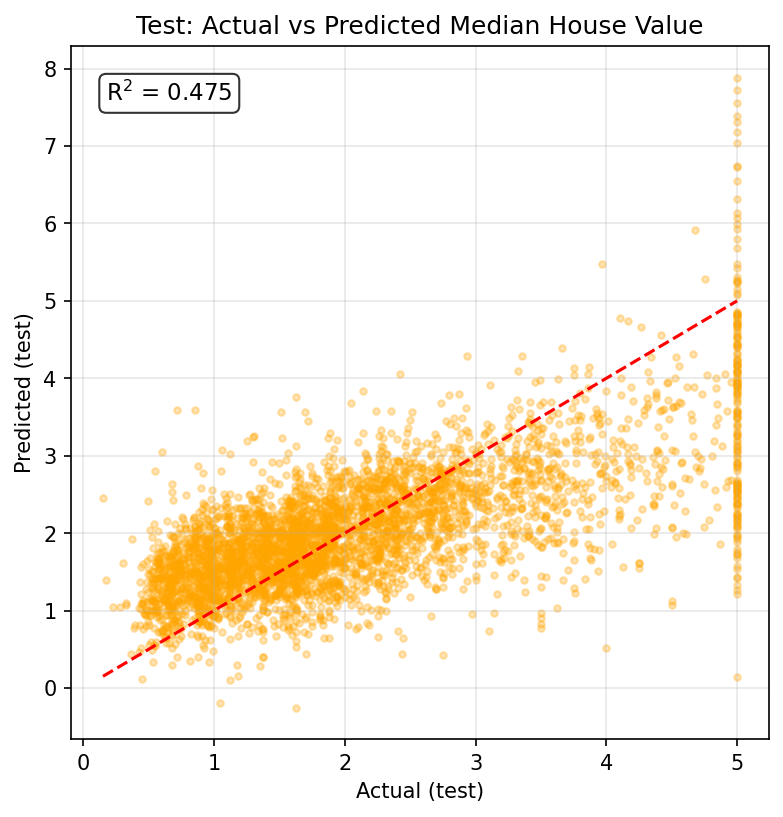
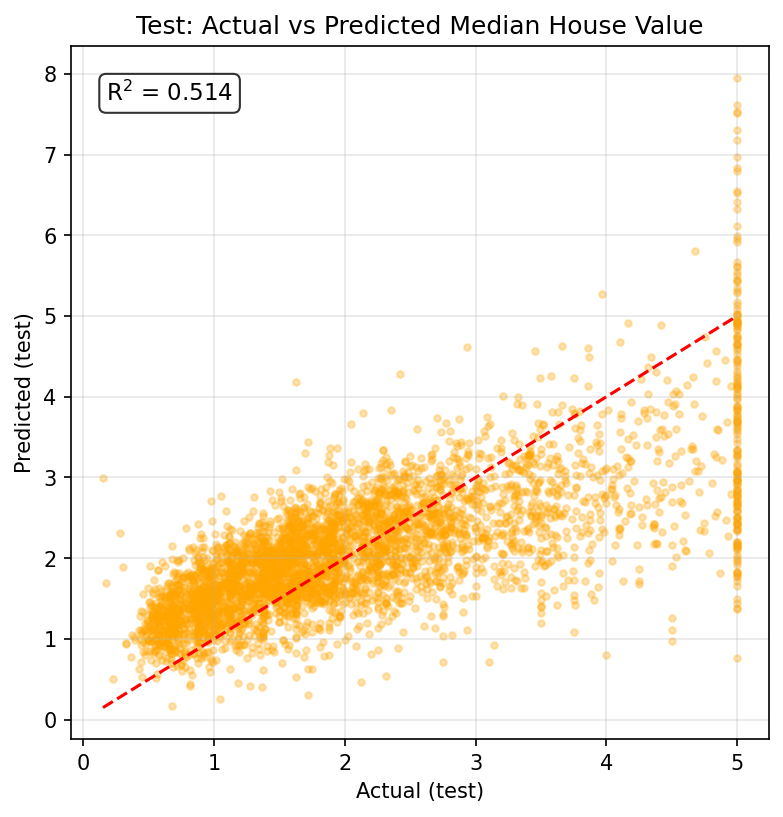
Revert to (64, 32) and add StandardScaler

diff --git a/Source/nn_pipeline.py b/Source/nn_pipeline.py
@@ -5,6 +5,8 @@ from sklearn.datasets import fetch_california_housing
 from sklearn.model_selection import train_test_split
 from sklearn.neural_network import MLPRegressor
 from sklearn.metrics import mean_squared_error, r2_score
+from sklearn.pipeline import make_pipeline
+from sklearn.preprocessing import StandardScaler
 
 # 1. Load the data
 housing = fetch_california_housing(as_frame=True)
@@ -21,7 +23,7 @@ X_train, X_test, y_train, y_test = train_test_split(
 # 3. Fit an MLPRegressor
  # Increased from (64, 32) to (100, 50) to test whether a larger network improves fit
 model = MLPRegressor(
-    hidden_layer_sizes=(100, 50),
+    hidden_layer_sizes=(64, 32),
     activation="relu",
     solver="adam",
     early_stopping=True,
